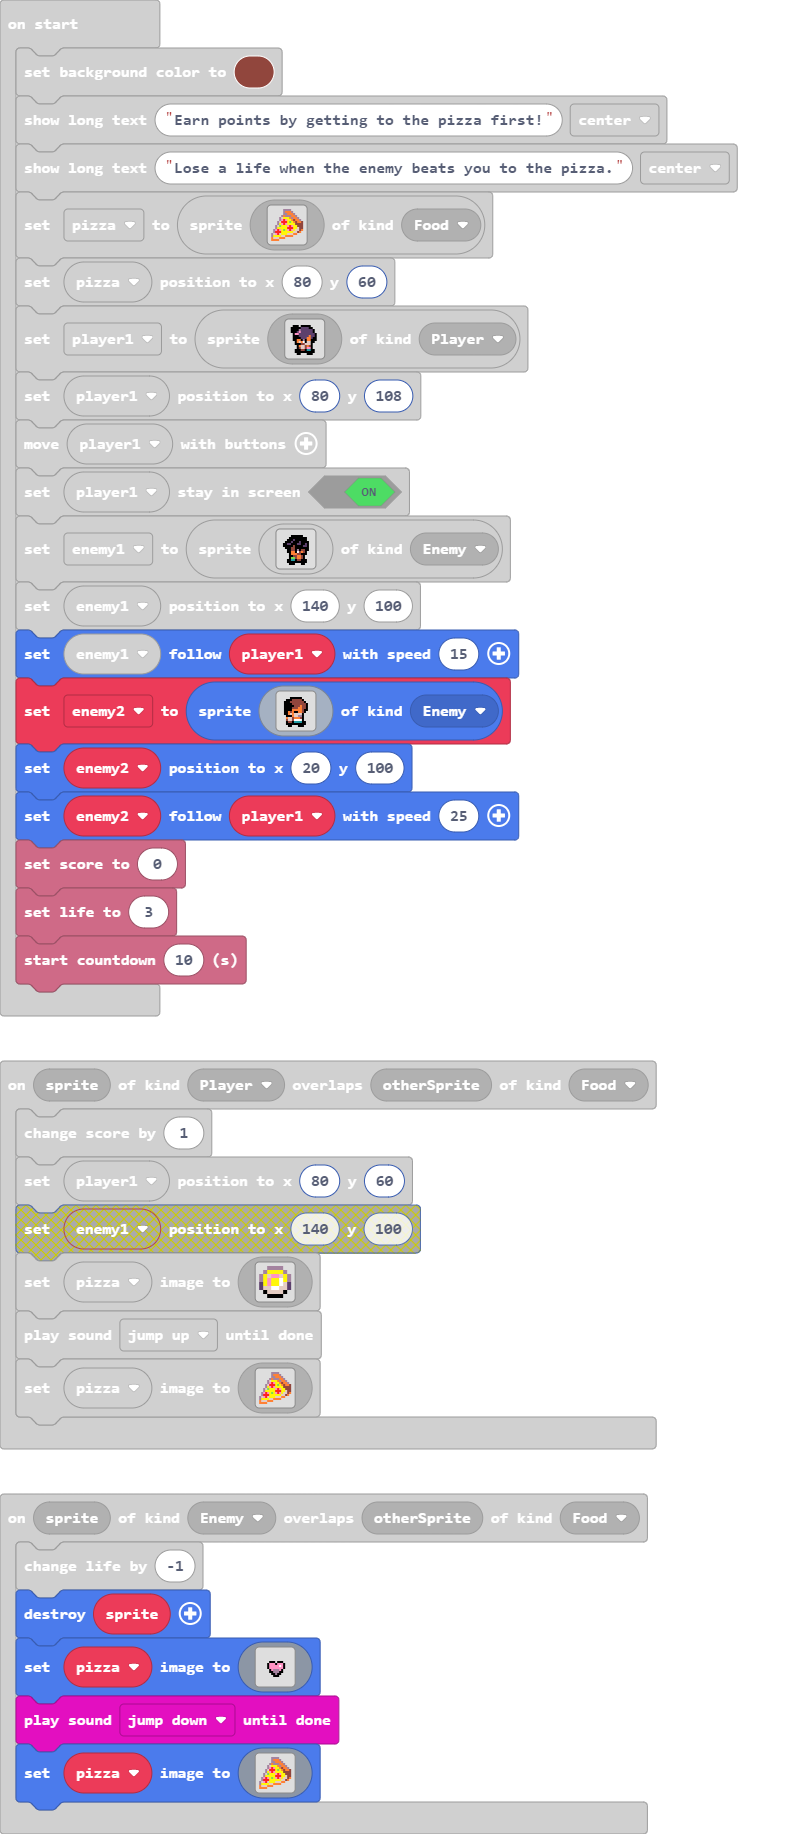
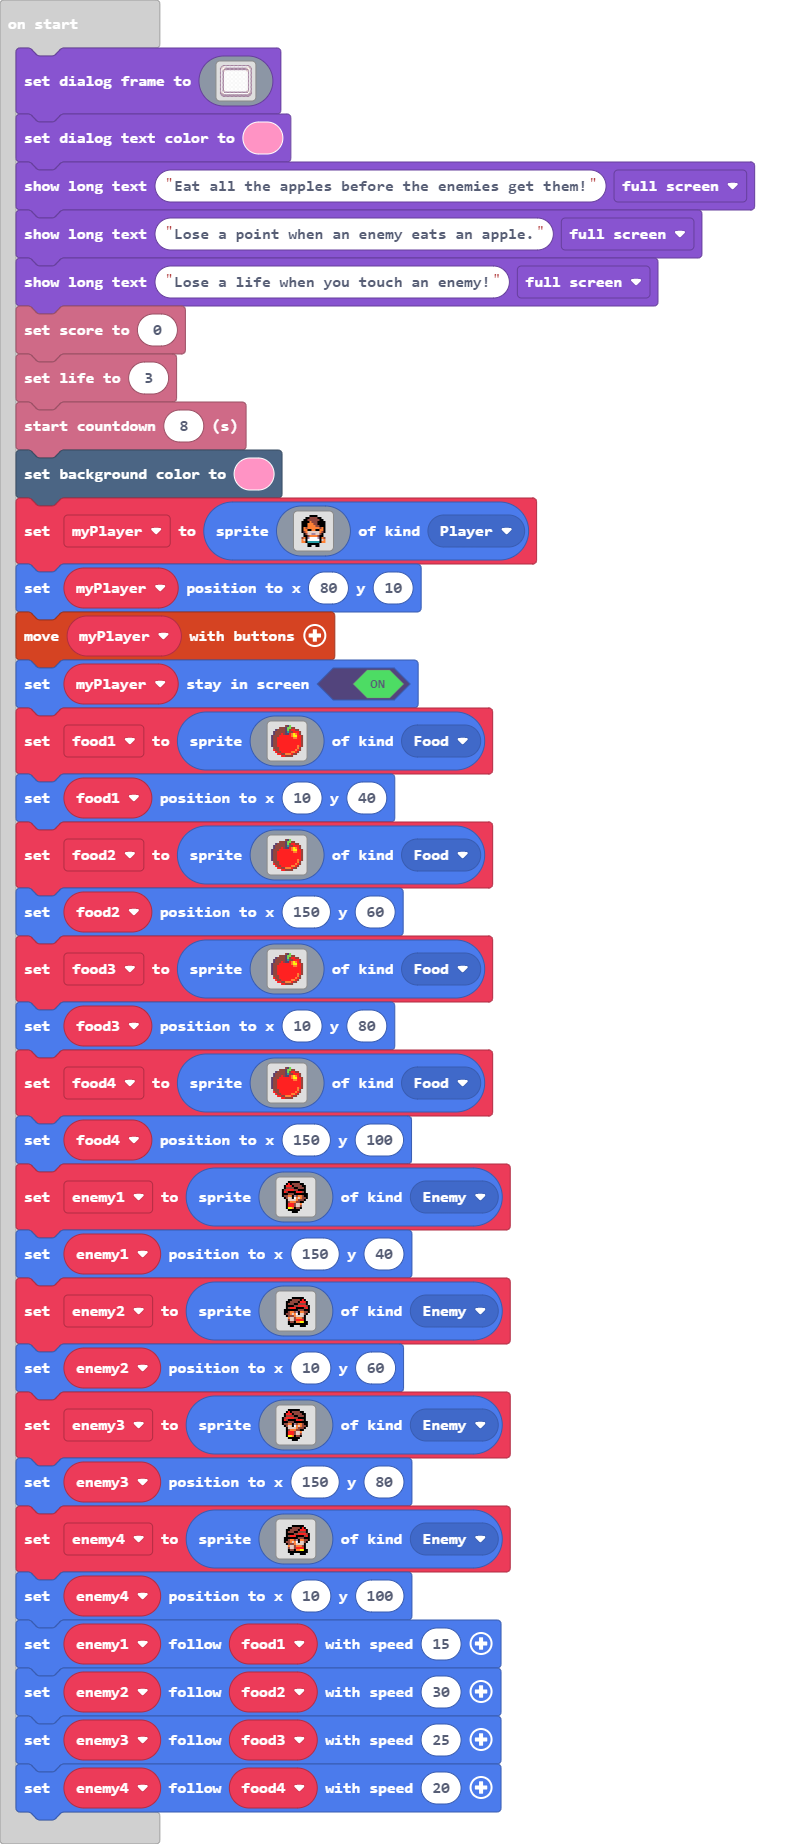
Update main.blocks, main.ts

diff --git a/main.ts b/main.ts
@@ -21,6 +21,36 @@ sprites.onOverlap(SpriteKind.Player, SpriteKind.Enemy, function (sprite, otherSp
     info.changeLifeBy(-1)
     music.powerDown.playUntilDone()
 })
+game.setDialogFrame(img`
+    ..bbbbbbbbbbbbbbbbbbbb..
+    .bd111111111111111111db.
+    bd1dbbbbbbbbbbbbbbbbd1db
+    b1dbbbbbbbbbbbbbbbbbbd1b
+    b1bd1111111111111111db1b
+    b1b111111111111111111b1b
+    b1b111111111111111111b1b
+    b1b111111111111111111b1b
+    b1b111111111111111111b1b
+    b1b111111111111111111b1b
+    b1b111111111111111111b1b
+    b1b111111111111111111b1b
+    b1b111111111111111111b1b
+    b1b111111111111111111b1b
+    b1b111111111111111111b1b
+    b1b111111111111111111b1b
+    b1b111111111111111111b1b
+    b1b111111111111111111b1b
+    b1b111111111111111111b1b
+    b1bd1111111111111111db1b
+    bd1bbbbbbbbbbbbbbbbbb1db
+    bbd111111111111111111dbb
+    .bbbbbbbbbbbbbbbbbbbbbb.
+    ..bbbbbbbbbbbbbbbbbbbb..
+    `)
+game.setDialogTextColor(3)
+game.showLongText("Eat all the apples before the enemies get them!", DialogLayout.Full)
+game.showLongText("Lose a point when an enemy eats an apple.", DialogLayout.Full)
+game.showLongText("Lose a life when you touch an enemy!", DialogLayout.Full)
 info.setScore(0)
 info.setLife(3)
 info.startCountdown(8)
